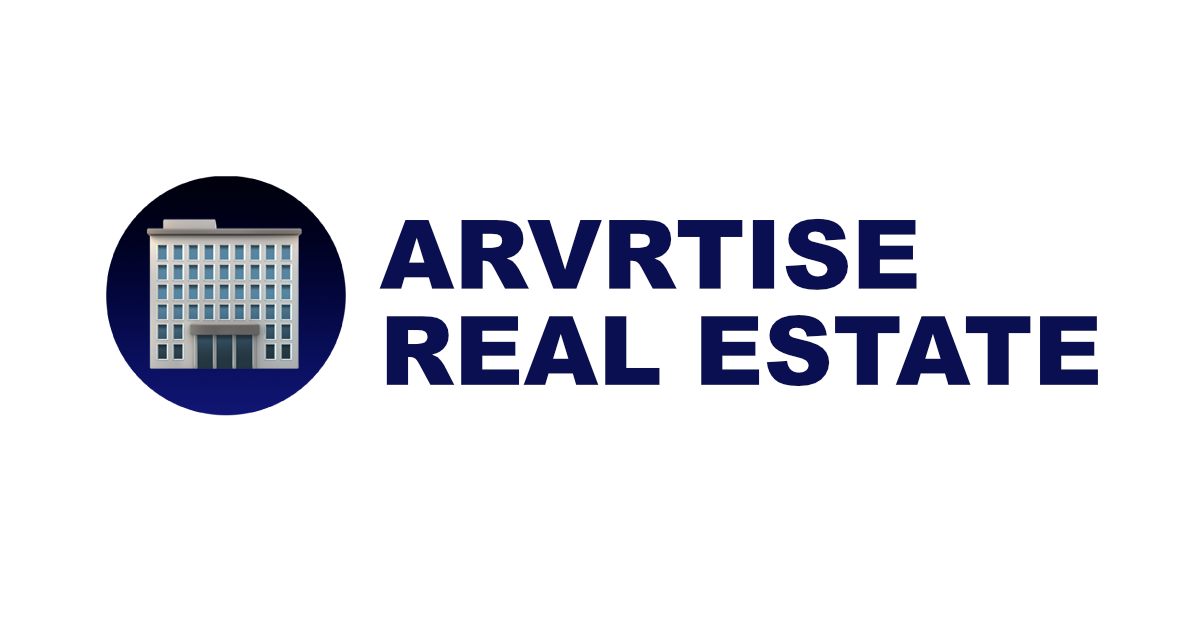
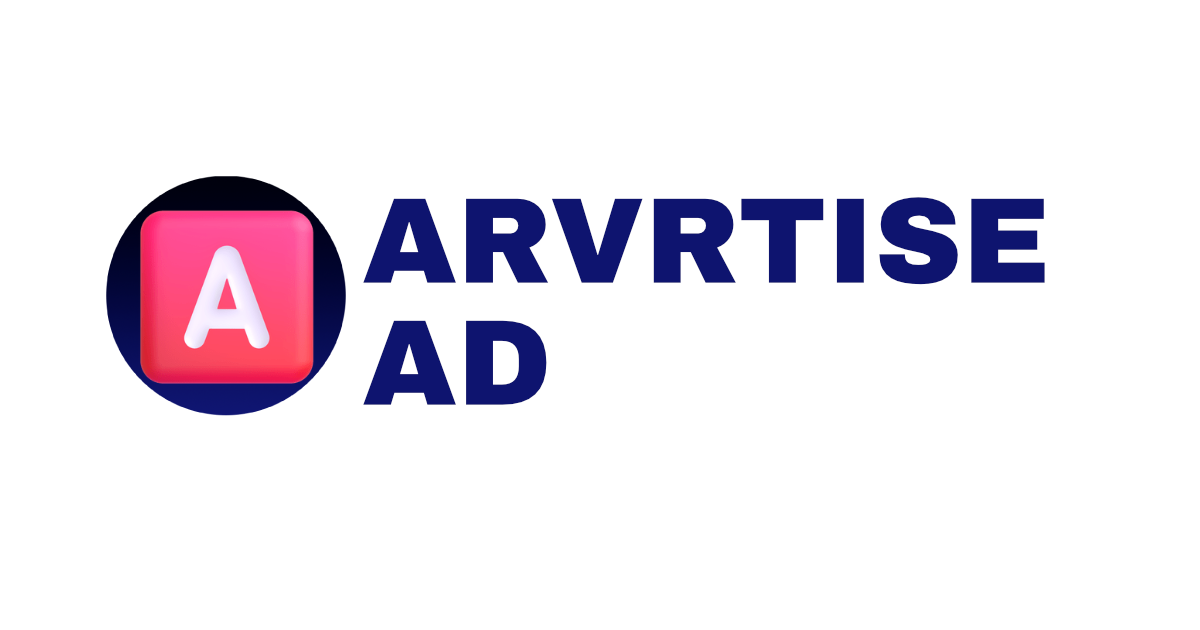
updated text

Changed region(s): [[0.3083, 0.3016, 0.925, 0.6635], [0.0925, 0.3317, 0.2775, 0.6333]]

diff --git a/routes/submit.tsx b/routes/submit.tsx
@@ -71,7 +71,7 @@ export default defineRoute<State>((_req, ctx) => {
               <strong>Do</strong> include a description with your title.
 
               <div class="text-sm text-gray-500">
-                E.g. “Arvrtise real estate: with your What3Words property address keep.it.simple”
+                E.g. “Arvrtise Ad: with your What3Words property address keep.it.simple”
               </div>
             </div>
             <p>
@@ -94,7 +94,7 @@ export default defineRoute<State>((_req, ctx) => {
                 type="text"
                 name="title"
                 required
-                placeholder="Arvrtise Real Estate: the best place to share your real estate project"
+                placeholder="Arvrtise Ad: the best place to share your real estate project"
                 disabled={!ctx.state.sessionUser}
               />
             </div>

diff --git a/components/Footer.tsx b/components/Footer.tsx
@@ -29,7 +29,7 @@ export default function Footer(props: FooterProps) {
       <p>© {SITE_NAME}</p>
       <nav className={NAV_STYLES}>
       <a
-          href="https://tiktok.com/@ad.realestate"
+          href="https://tiktok.com/@arvrtise"
           className={props.url.pathname === "/blog" ? ACTIVE_LINK_STYLES : LINK_STYLES}
         >
           TikTok
@@ -37,7 +37,7 @@ export default function Footer(props: FooterProps) {
         <a
           href="https://discord.gg/Zy4TfphTCX"
           target="_blank"
-          aria-label="Arvrtise Real Estate on Discord"
+          aria-label="Arvrtise Ad on Discord"
           className={LINK_STYLES}
         >
           <IconBrandDiscord className="h-6 w-6" />

diff --git a/components/PremiumBadge.tsx b/components/PremiumBadge.tsx
@@ -8,7 +8,7 @@ export function PremiumBadge(props: PremiumBadgeProps) {
   return (
     <span
       role="img"
-      aria-label="Arvrtise Real Estate Premium"
+      aria-label="Arvrtise Ad Premium"
       className={props.className} // Corrected the prop name to "className"
     >
       🏢

diff --git a/utils/constants.ts b/utils/constants.ts
@@ -1,5 +1,5 @@
 // Copyright 2023 the Deno authors. All rights reserved. MIT license.
-export const SITE_NAME = "Arvrtise Real Estate";
+export const SITE_NAME = "Arvrtise Ad";
 export const SITE_DESCRIPTION = "DIY real estate Arvrtising.";
 
 /**

diff --git a/routes/pricing.tsx b/routes/pricing.tsx
@@ -22,7 +22,7 @@ function FreePlanCard() {
             Free
           </h2>
           <p class="text-gray-500">
-            Discover and Arvrtise real estate.
+            Discover and Arvrtise Ad.
           </p>
         </div>
         <p>

diff --git a/posts/first-post.md b/posts/first-post.md
@@ -1,18 +1,18 @@
 ---
-title: Arvrtise Real Estate: Revolutionizing DIY Marketing Campaigns
+title: Arvrtise Ad: Revolutionizing DIY Marketing Campaigns
 date: September 30, 2023
 author: [Your Name]
-tags: [Arvrtise Real Estate, Marketing, DIY Campaigns, Real Estate]
+tags: [Arvrtise Ad, Marketing, DIY Campaigns, Real Estate]
 summary: A new way to market real estate 
 ---
 
 # Introduction
 
-In the ever-evolving landscape of real estate marketing, Arvrtise Real Estate has emerged as a game-changer. This platform is not just another marketing tool; it's a vibrant community where marketing meets the social dynamics of Reddit. At Arvrtise, real estate professionals can harness the power of DIY marketing campaigns with features that are reminiscent of the popular social platform. In this blog post, we'll delve into how Arvrtise Real Estate has become the Reddit of marketing and explore the unique offerings of its premium and enterprise versions.
+In the ever-evolving landscape of real estate marketing, Arvrtise Ad has emerged as a game-changer. This platform is not just another marketing tool; it's a vibrant community where marketing meets the social dynamics of Reddit. At Arvrtise, real estate professionals can harness the power of DIY marketing campaigns with features that are reminiscent of the popular social platform. In this blog post, we'll delve into how Arvrtise Ad has become the Reddit of marketing and explore the unique offerings of its premium and enterprise versions.
 
-## Arvrtise Real Estate: The Reddit of Marketing
+## Arvrtise Ad: The Reddit of Marketing
 
-Arvrtise Real Estate takes a fresh approach to real estate marketing by providing a space where real estate professionals can create and share marketing content, gaining exposure through upvotes, comments, and shares—just like Reddit. This community-driven platform has gained popularity for several reasons:
+Arvrtise Ad takes a fresh approach to real estate marketing by providing a space where real estate professionals can create and share marketing content, gaining exposure through upvotes, comments, and shares—just like Reddit. This community-driven platform has gained popularity for several reasons:
 
 ### 1. Free Exposure
 
@@ -34,7 +34,7 @@ Arvrtise offers a premium membership that takes DIY marketing to the next level.
 
 ### 4. Enterprise Solutions
 
-For businesses looking for comprehensive marketing solutions, Arvrtise Real Estate offers an enterprise version that provides:
+For businesses looking for comprehensive marketing solutions, Arvrtise Ad offers an enterprise version that provides:
 
 - **Advanced Reporting:** Enterprises can access detailed reports and analytics to measure the success of their marketing campaigns.
 
@@ -44,7 +44,7 @@ For businesses looking for comprehensive marketing solutions, Arvrtise Real Esta
 
 ## Solving Traditional Real Estate Marketing Challenges
 
-Arvrtise Real Estate's innovative approach to DIY marketing campaigns addresses several challenges that traditional real estate marketing faces:
+Arvrtise Ad innovative approach to DIY marketing campaigns addresses several challenges that traditional real estate marketing faces:
 
 ### 1. Cost-Effective Marketing
 
@@ -64,13 +64,13 @@ Access to The Wizard of Hahz for marketing brainstorming sessions is a unique ad
 
 ## Conclusion
 
-Arvrtise Real Estate is revolutionizing the world of real estate marketing with its Reddit-inspired approach. The platform offers a range of solutions for businesses and individuals looking to promote their listings and brands. Whether you're seeking free exposure, considering a premium membership, or exploring enterprise-level solutions, Arvrtise has something to offer. Embrace the future of DIY marketing campaigns with Arvrtise Real Estate.
+Arvrtise Ad is revolutionizing the world of real estate marketing with its Reddit-inspired approach. The platform offers a range of solutions for businesses and individuals looking to promote their listings and brands. Whether you're seeking free exposure, considering a premium membership, or exploring enterprise-level solutions, Arvrtise has something to offer. Embrace the future of DIY marketing campaigns with Arvrtise Ad.
 
 Ready to take your real estate marketing to the next level? Join the Arvrtise community today!
 
 [Sign Up Now](https://www.arvrtise-realestate.com)
 
-[Arvrtise Real Estate TikTok](https://tiktok.com/@ad.realestate)
+[Arvrtise Ad TikTok](https://tiktok.com/@ad.realestate)
 
 
 ---
